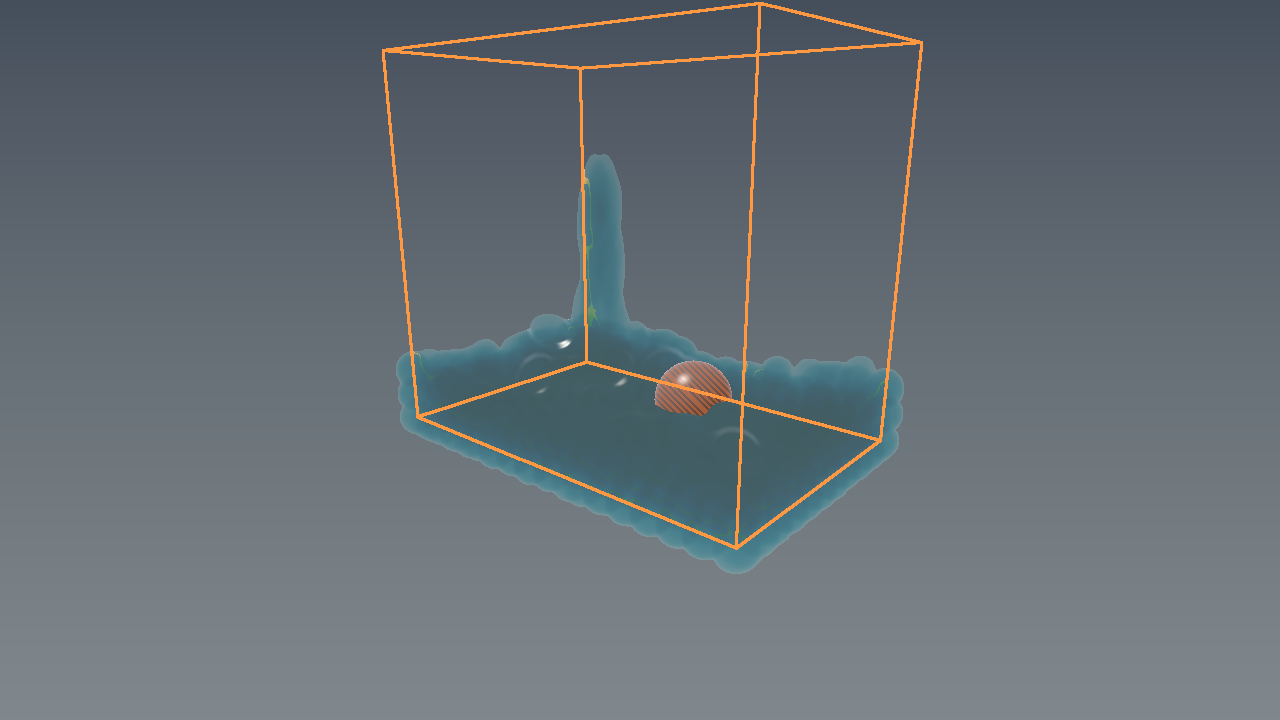
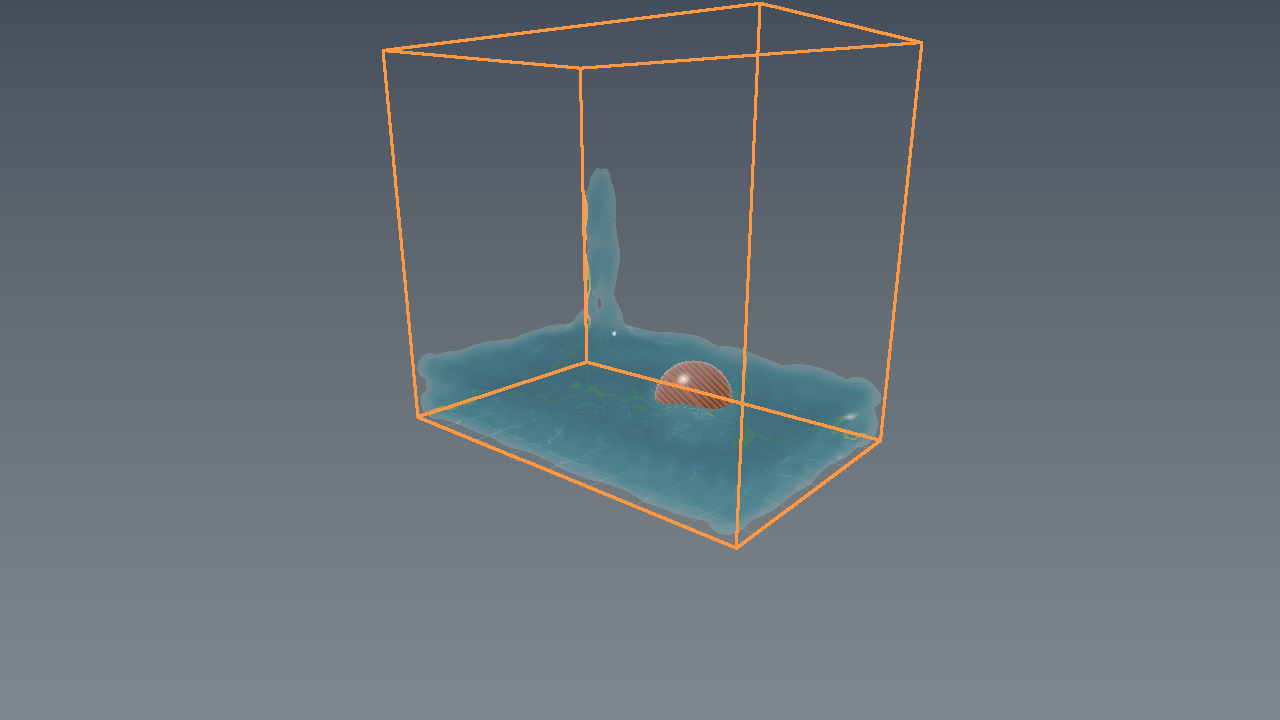
fix(fluid): replace blobby splats with PCA ellipsoids

Changed region(s): [[0.3125, 0.2139, 0.7188, 0.7944]]

diff --git a/Projects/Project-Fluid/Source/CpuProofMain.cpp b/Projects/Project-Fluid/Source/CpuProofMain.cpp
@@ -1,4 +1,5 @@
 #include "PbfFluid.h"
+#include "SurfaceReconstruction.h"
 
 #include <algorithm>
 #include <array>
@@ -46,20 +47,21 @@ public:
         }
     }
 
-    void FluidSurface(const std::vector<PF::Vec3>& positions,const std::vector<PF::Vec3>& velocities,const PF::FluidMaterial& material){
+    void FluidSurface(const std::vector<PF::SurfaceKernel>& kernels,const PF::FluidMaterial& material){
         const std::size_t count=static_cast<std::size_t>(W)*H;
         std::vector<float> front(count,std::numeric_limits<float>::max()),thickness(count,0.0f),scratch(count,std::numeric_limits<float>::max());
-        constexpr float surfaceRadius=.180f;
-        for(std::size_t i=0;i<positions.size();++i){
-            const PF::Vec3 centre=positions[i],velocity=velocities[i];Screen s=Project(centre);if(!s.visible)continue;
-            float vx=PF::Dot(velocity,Right),vy=-PF::Dot(velocity,Up),speed=std::sqrt(vx*vx+vy*vy);float ux=speed>.01f?vx/speed:0.0f,uy=speed>.01f?vy/speed:1.0f;
-            float aspect=1.0f+std::clamp(speed*.22f,0.0f,1.4f),major=surfaceRadius*aspect,minor=surfaceRadius/std::sqrt(aspect),depthRadius=minor;
-            int majorPixels=std::clamp(static_cast<int>(Focal*major/s.z),1,72),minorPixels=std::clamp(static_cast<int>(Focal*minor/s.z),1,48),extent=majorPixels;
+        for(const PF::SurfaceKernel& kernel:kernels){
+            const PF::Vec3 centre=kernel.Centre;Screen s=Project(centre);if(!s.visible)continue;
+            const Screen ea=Project(centre+kernel.AxisA),eb=Project(centre+kernel.AxisB),ec=Project(centre+kernel.AxisC);
+            const float ax=ea.x-s.x,ay=ea.y-s.y,bx=eb.x-s.x,by=eb.y-s.y,cx=ec.x-s.x,cy=ec.y-s.y;
+            const float m00=ax*ax+bx*bx+cx*cx,m01=ax*ay+bx*by+cx*cy,m11=ay*ay+by*by+cy*cy,trace=m00+m11,disc=std::sqrt(std::max(0.0f,(m00-m11)*(m00-m11)+4*m01*m01));
+            const float majorPixels=std::sqrt(std::max(1.0f,(trace+disc)*.5f)),minorPixels=std::sqrt(std::max(1.0f,(trace-disc)*.5f)),angle=.5f*std::atan2(2*m01,m00-m11),ux=std::cos(angle),uy=std::sin(angle);
+            const float da=PF::Dot(kernel.AxisA,Forward),db=PF::Dot(kernel.AxisB,Forward),dc=PF::Dot(kernel.AxisC,Forward),depthRadius=std::sqrt(da*da+db*db+dc*dc);const int extent=std::clamp(static_cast<int>(majorPixels)+1,1,72);
             for(int oy=-extent;oy<=extent;++oy)for(int ox=-extent;ox<=extent;++ox){
-                float along=(ox*ux+oy*uy)/majorPixels,across=(-ox*uy+oy*ux)/minorPixels,d2=along*along+across*across;if(d2>1.0f)continue;
-                int x=static_cast<int>(s.x)+ox,y=static_cast<int>(s.y)+oy;if(x<0||y<0||x>=(int)W||y>=(int)H)continue;
-                float nz=std::sqrt(1.0f-d2);std::size_t at=static_cast<std::size_t>(y)*W+x;
-                front[at]=std::min(front[at],s.z-depthRadius*nz);thickness[at]+=2.0f*depthRadius*nz;
+                const float along=(ox*ux+oy*uy)/majorPixels,across=(-ox*uy+oy*ux)/minorPixels,d2=along*along+across*across;if(d2>1.0f)continue;
+                const int x=static_cast<int>(s.x)+ox,y=static_cast<int>(s.y)+oy;if(x<0||y<0||x>=(int)W||y>=(int)H)continue;
+                const float nz=std::sqrt(1.0f-d2);const std::size_t at=static_cast<std::size_t>(y)*W+x;
+                front[at]=std::min(front[at],s.z-depthRadius*nz);thickness[at]+=2.0f*depthRadius*nz*kernel.VolumeWeight;
             }
         }
         // Six edge-aware depth/thickness passes mirror the source renderer's
@@ -101,7 +103,6 @@ private:
 int main(int argc,char**argv){
     PF::PbfFluid fluid;fluid.SetObstacle(true);
     if(argc>3){const std::string material=argv[3];if(material=="milk")fluid.SetMaterial(PF::Material::Milk);else if(material=="honey")fluid.SetMaterial(PF::Material::Honey);else if(material=="chocolate")fluid.SetMaterial(PF::Material::Chocolate);}
-    fluid.Stir(1.7f);
     int steps=argc>2?std::max(0,std::stoi(argv[2])):18;
     for(int i=0;i<steps;++i){fluid.Pour(1.0f/60.0f);fluid.Step(1.0f/60.0f);}
     const auto& d=fluid.Diagnostics();
@@ -116,6 +117,6 @@ int main(int argc,char**argv){
              <<"bounds [-1.95,1.95] x [0.19,3.70] x [-1.25,1.25] m | sphere contacts "<<d.SphereContacts<<" | wall contacts "<<d.WallContacts<<" | min sphere distance "<<minimumObstacleDistance<<" m\n"
              <<"pressure passes "<<d.PressureIterations<<" | mean/peak compression "<<d.MeanCompression<<" / "<<d.PeakCompression<<"\n"
              <<"viscosity PCG iterations "<<d.ViscosityIterations<<" | relative residual "<<d.ViscosityRelativeResidual<<"\n";
-    if(argc>1){ProofRenderer renderer(1280,720);renderer.Bounds();const auto& material=fluid.ActiveMaterial();renderer.FluidSurface(fluid.Positions(),fluid.Velocities(),material);renderer.Sphere(PF::PbfFluid::ObstacleCentre(),PF::PbfFluid::ObstacleRadius(),{.16f,.18f,.20f},true,.25f,1.0f,1.45f);renderer.Bounds(false);if(!renderer.Save(argv[1]))return 2;std::cout<<"proof frame: "<<argv[1]<<'\n';}
+    if(argc>1){ProofRenderer renderer(1280,720);renderer.Bounds();const auto& material=fluid.ActiveMaterial();PF::SurfaceReconstruction reconstruction;reconstruction.Update(fluid.Positions());renderer.FluidSurface(reconstruction.Kernels(),material);renderer.Sphere(PF::PbfFluid::ObstacleCentre(),PF::PbfFluid::ObstacleRadius(),{.16f,.18f,.20f},true,.25f,1.0f,1.45f);renderer.Bounds(false);if(!renderer.Save(argv[1]))return 2;std::cout<<"proof frame: "<<argv[1]<<'\n';}
     return std::isfinite(d.PeakCompression)?0:1;
 }

diff --git a/Projects/Project-Fluid/Source/SurfaceReconstruction.cpp b/Projects/Project-Fluid/Source/SurfaceReconstruction.cpp
@@ -1,0 +1,29 @@
+#include "SurfaceReconstruction.h"
+#include <algorithm>
+#include <cmath>
+
+namespace Frontier::ProjectFluid {
+namespace { constexpr float Pi=3.14159265358979323846f; }
+
+void SurfaceReconstruction::Diagonalize(std::array<float,9>& c,std::array<float,9>& v) noexcept {
+    v={1,0,0,0,1,0,0,0,1};
+    auto rotate=[&](int p,int q){const int pq=p*3+q;if(std::abs(c[pq])<1e-12f)return;const float angle=.5f*std::atan2(2*c[pq],c[q*3+q]-c[p*3+p]),cs=std::cos(angle),sn=std::sin(angle),app=c[p*3+p],aqq=c[q*3+q],apq=c[pq];
+        for(int k=0;k<3;++k){if(k!=p&&k!=q){const float kp=c[k*3+p],kq=c[k*3+q];c[k*3+p]=c[p*3+k]=cs*kp-sn*kq;c[k*3+q]=c[q*3+k]=sn*kp+cs*kq;}const float vp=v[k*3+p],vq=v[k*3+q];v[k*3+p]=cs*vp-sn*vq;v[k*3+q]=sn*vp+cs*vq;}
+        c[p*3+p]=cs*cs*app-2*sn*cs*apq+sn*sn*aqq;c[q*3+q]=sn*sn*app+2*sn*cs*apq+cs*cs*aqq;c[pq]=c[q*3+p]=0;};
+    for(int sweep=0;sweep<5;++sweep){rotate(0,1);rotate(0,2);rotate(1,2);}
+}
+
+void SurfaceReconstruction::Update(const std::vector<Vec3>& positions) {
+    constexpr float support=.42f,support2=support*support;
+    Kernels_.resize(positions.size());
+    for(std::size_t i=0;i<positions.size();++i){const Vec3 origin=positions[i];float weight=0,xx=0,xy=0,xz=0,yy=0,yz=0,zz=0;Vec3 mean{};int neighbors=0;
+        for(const Vec3& sample:positions){const Vec3 d=sample-origin;const float r2=Dot(d,d);if(r2>=support2)continue;const float w=1-r2*std::sqrt(r2)/(support*support2);weight+=w;mean+=d*w;xx+=w*d.x*d.x;xy+=w*d.x*d.y;xz+=w*d.x*d.z;yy+=w*d.y*d.y;yz+=w*d.y*d.z;zz+=w*d.z*d.z;++neighbors;}
+        SurfaceKernel& kernel=Kernels_[i];
+        auto sphere=[&](float radius){kernel={origin,{radius,0,0},{0,radius,0},{0,0,radius},(1.0f/PbfFluid::RestDensity)/(4*Pi/3*radius*radius*radius)};};
+        if(neighbors<8||weight<1e-8f){sphere(.097f);continue;}mean=mean/weight;
+        std::array<float,9> covariance{xx/weight-mean.x*mean.x,xy/weight-mean.x*mean.y,xz/weight-mean.x*mean.z,xy/weight-mean.x*mean.y,yy/weight-mean.y*mean.y,yz/weight-mean.y*mean.z,xz/weight-mean.x*mean.z,yz/weight-mean.y*mean.z,zz/weight-mean.z*mean.z},rotation{};
+        Diagonalize(covariance,rotation);const float maximum=std::max({covariance[0],covariance[4],covariance[8],1e-8f});const float e0=std::max(covariance[0],maximum/3),e1=std::max(covariance[4],maximum/3),e2=std::max(covariance[8],maximum/3);const float radius=.097f+.058f*std::min(1.0f,(neighbors-7)/20.0f),factor=radius/std::cbrt(e0*e1*e2),a=e0*factor,b=e1*factor,c=e2*factor,smoothing=.3f*std::min(1.0f,(neighbors-7)/20.0f);
+        kernel.Centre=origin+mean*smoothing;kernel.AxisA={rotation[0]*a,rotation[3]*a,rotation[6]*a};kernel.AxisB={rotation[1]*b,rotation[4]*b,rotation[7]*b};kernel.AxisC={rotation[2]*c,rotation[5]*c,rotation[8]*c};kernel.VolumeWeight=(1.0f/PbfFluid::RestDensity)/(4*Pi/3*radius*radius*radius);
+    }
+}
+}

diff --git a/Projects/Project-Fluid/Source/VulkanFluidMain.cpp b/Projects/Project-Fluid/Source/VulkanFluidMain.cpp
@@ -3,6 +3,7 @@
 #include <GLFW/glfw3.h>
 
 #include "PbfFluid.h"
+#include "SurfaceReconstruction.h"
 
 #include <algorithm>
 #include <array>
@@ -68,10 +69,12 @@ struct alignas(16) Parameters {
     float OpticalPadding{};
 };
 struct alignas(16) GpuParticle {
-    float X{},Y{},Z{},Padding{};
-    float VelocityX{},VelocityY{},VelocityZ{},VelocityPadding{};
+    float X{},Y{},Z{},VolumeWeight{};
+    float AxisAX{},AxisAY{},AxisAZ{},PaddingA{};
+    float AxisBX{},AxisBY{},AxisBZ{},PaddingB{};
+    float AxisCX{},AxisCY{},AxisCZ{},PaddingC{};
 };
-static_assert(sizeof(Parameters) == 80 && sizeof(GpuParticle) == 32);
+static_assert(sizeof(Parameters) == 80 && sizeof(GpuParticle) == 64);
 
 class FluidApplication final {
 public:
@@ -128,6 +131,7 @@ private:
     Buffer PixelBuffer_;
     Buffer UniformBuffer_;
     PF::PbfFluid Fluid_;
+    PF::SurfaceReconstruction Reconstruction_;
     Parameters Params_{};
     std::vector<GpuParticle> GpuParticles_;
     float StepAccumulator_{};
@@ -385,10 +389,14 @@ private:
 
     void UploadParticles() {
         const auto& positions = Fluid_.Positions();
-        const auto& velocities = Fluid_.Velocities();
-        for (std::size_t i = 0; i < positions.size(); ++i)
-            GpuParticles_[i] = {positions[i].x, positions[i].y, positions[i].z, 0.0f,
-                                velocities[i].x, velocities[i].y, velocities[i].z, 0.0f};
+        Reconstruction_.Update(positions);
+        const auto& kernels = Reconstruction_.Kernels();
+        for (std::size_t i = 0; i < positions.size(); ++i) {
+            const auto& k = kernels[i];
+            GpuParticles_[i] = {k.Centre.x,k.Centre.y,k.Centre.z,k.VolumeWeight,
+                k.AxisA.x,k.AxisA.y,k.AxisA.z,0.0f,k.AxisB.x,k.AxisB.y,k.AxisB.z,0.0f,
+                k.AxisC.x,k.AxisC.y,k.AxisC.z,0.0f};
+        }
         std::memcpy(ParticleBuffer_.Mapped, GpuParticles_.data(), positions.size() * sizeof(GpuParticle));
         Params_.ParticleCount = static_cast<std::uint32_t>(positions.size());
         Params_.Time = Fluid_.Time();

diff --git a/Projects/Project-Fluid/Source/SurfaceReconstruction.h b/Projects/Project-Fluid/Source/SurfaceReconstruction.h
@@ -1,0 +1,25 @@
+#pragma once
+#include "PbfFluid.h"
+#include <array>
+#include <vector>
+
+namespace Frontier::ProjectFluid {
+struct SurfaceKernel {
+    Vec3 Centre;
+    Vec3 AxisA;
+    Vec3 AxisB;
+    Vec3 AxisC;
+    float VolumeWeight{};
+};
+
+// Weighted covariance/PCA kernel reconstruction adapted from Yu & Turk and
+// the authoritative Flux reconstruction.ts. Physics positions are untouched.
+class SurfaceReconstruction final {
+public:
+    void Update(const std::vector<Vec3>& positions);
+    [[nodiscard]] const std::vector<SurfaceKernel>& Kernels() const noexcept { return Kernels_; }
+private:
+    static void Diagonalize(std::array<float,9>& covariance,std::array<float,9>& rotation) noexcept;
+    std::vector<SurfaceKernel> Kernels_;
+};
+}

diff --git a/Projects/Project-Fluid/Source/PbfFluid.cpp b/Projects/Project-Fluid/Source/PbfFluid.cpp
@@ -65,6 +65,7 @@ void PbfFluid::Reset(Experiment experiment) {
                 Add({x*0.157f,1.0f+y*0.157f,z*0.157f});
     }
     RebuildBoundarySamples(); BuildNeighbours(); BuildBoundaryNeighbours(); ComputeDensity(false);
+    if(experiment==Experiment::Basin){SolvePressure();std::fill(Velocities_.begin(),Velocities_.end(),Vec3{});Diagnostics_={};}
 }
 
 float PbfFluid::Poly6(float r2) const noexcept {

diff --git a/Projects/Project-Fluid/RESEARCH.md b/Projects/Project-Fluid/RESEARCH.md
@@ -30,11 +30,11 @@ commit. `Project-Fluid-CPU` is the deterministic headless path used for proof.
 - The default native presentation is a continuous screen-space liquid surface,
   not one rendered sphere per simulation particle. A first compute/CPU-mirror
   pass accumulates nearest front depth and additive optical thickness from
-  velocity-aligned anisotropic kernels. The major axis stretches along projected
-  flow while preserving a smaller depth axis, closing gaps in jets without
-  exposing a chain of spheres. Repeated broad bilateral depth and Gaussian
-  thickness filters close the sampled sheet; depth gradients reconstruct a
-  low-frequency shading normal.
+  weighted-covariance/PCA ellipsoids. Dense neighborhoods use bounded 3:1,
+  volume-normalized principal axes and Laplacian-smoothed render centers; sparse
+  spray remains mass-volume spherical. Repeated broad bilateral depth and
+  Gaussian thickness filters close the sampled sheet; depth gradients
+  reconstruct a low-frequency shading normal.
 - Vulkan kernels use Frontier's `.slang` file convention and lower to SPIR-V.
   CPU and Vulkan resolves consume the source commit's base colour,
   Beer–Lambert absorption, opacity, roughness and IOR values for all four
@@ -50,10 +50,11 @@ commit. `Project-Fluid-CPU` is the deterministic headless path used for proof.
 - Native capillarity now evaluates the complete Flux/Akinci pair model: weighted
   color-field normals, the piecewise cohesion kernel, equal/opposite pair
   scattering, density-deficiency correction, and sampled-solid adhesion.
-- This is honestly a depth/thickness screen-space reconstruction, not a claim
-  that the source's CPU covariance ellipsoids, complete Yu–Turk implicit field,
-  or Marching Cubes were ported. It retains the known overlap, thin-sheet and
-  silhouette limits recorded in the original research below.
+- Weighted covariance/PCA, smoothed centers, and bounded ellipsoids are now
+  shared by the CPU and Vulkan paths. The resolve is still honestly a
+  depth/thickness screen-space reconstruction—not yet the complete Yu–Turk
+  summed implicit field or Marching Cubes extraction. It therefore retains the
+  known overlap and thin-sheet limits recorded in the original research below.
 - The WebGL anisotropic screen-space reconstruction is not falsely relabeled as
   ReSTIR. Future ReSTIR integration consumes an immutable particle/surface
   snapshot after the fixed step, writes fluid motion vectors, and rejects

diff --git a/Exhibits/Project-Fluid/README.md b/Exhibits/Project-Fluid/README.md
@@ -19,9 +19,9 @@ tension, wetting and shear thinning alter the corresponding simulation state.
 
 These are C++ CPU-mirror execution outputs, not generated artwork or captures
 from the removed ocean project. The proof executes the same scene and same
-front-depth/thickness surface algorithm as the Vulkan `.slang` path: velocity-aligned anisotropic
-kernels build continuous front depth and optical thickness, then broad depth and
-thickness filters remove particle-frequency lobes, and a resolve reconstructs normals and applies
+front-depth/thickness surface algorithm as the Vulkan `.slang` path: weighted-covariance/PCA ellipsoids with smoothed render centers build continuous
+front depth and optical thickness, then broad depth and thickness filters remove
+particle-frequency lobes, and a resolve reconstructs normals and applies
 refraction, Beer–Lambert attenuation, Fresnel response and rough highlights.
 Individual simulation particles are not directly drawn in the default proof.
 
@@ -35,8 +35,9 @@ projection used during pressure iterations.
 ```text
 Flux PBF C++ mirror | material Water | particles 1620 | t 1.50000 s
 bounds [-1.95,1.95] x [0.19,3.70] x [-1.25,1.25] m
-sphere contacts 75 | wall contacts 5922 | minimum sphere distance 0.36001 m
-pressure passes 6 | mean/peak compression 0.00323 / 0.05044
+sphere contacts 0 | wall contacts 0 | minimum sphere distance 0.46668 m
+pressure passes 3 | mean/peak compression 0.00245 / 0.02244
+viscosity PCG iterations 1 | relative residual 0.00000
 ```
 
 Build and reproduce:
@@ -54,9 +55,9 @@ python3 Tools/PpmToPng.py /tmp/flux.ppm \
 Checksums:
 
 ```text
-923075059850a165c3b45a79ec4d8ac2b63289322ee18eea2985c9eca098e5d8  ProjectFluid_Flux_PBF_Bounds_Collision.png
-976d394a161e8bc8c3790d6d4896dbb29df918cc3648cafa0539f19d01617bf6  ProjectFluid_Flux_PBF_Collision.gif
-6f3781ac93481ccf7fa31d22cc0732841945da38c9e663650f7a4542cda79c5f  ProjectFluid_Flux_Surface_Material_Comparison.png
+c9188fd017912aa2048d60a01781fbb1e048bdbbea9b9f982716f185c8d91880  ProjectFluid_Flux_PBF_Bounds_Collision.png
+0417a3eff2dc4627b1a902a80889ae7766a9f3729e0c426e57c3bb3d07ab679a  ProjectFluid_Flux_PBF_Collision.gif
+8f35342e5610d8d2435c2ff644fea7a46320223948925a64f7e35995a3eb94c3  ProjectFluid_Flux_Surface_Material_Comparison.png
 ```
 
 The GIF samples twelve independently reproduced fixed-step states. The

diff --git a/Projects/Project-Fluid/README.md b/Projects/Project-Fluid/README.md
@@ -15,9 +15,10 @@ which has been removed.
 - pairwise surface response, viscosity and shear-thinning material response
 - water, milk, honey and chocolate presets
 - pouring, stirring, pause and deterministic reset
-- Vulkan compute screen-space surface reconstruction: velocity-aligned
-  anisotropic front-depth/thickness kernels, wide filtered resolve,
-  reconstructed normals and swapchain copy
+- shared CPU/Vulkan Yu–Turk weighted covariance/PCA reconstruction with
+  smoothed centers and bounded, volume-normalized ellipsoid kernels
+- Vulkan front-depth/thickness projection, wide filtered resolve, reconstructed
+  normals and swapchain copy
 - Frontier `.slang` shader sources lowered to Vulkan SPIR-V
 - source optical presets: base colour, absorption, opacity, roughness and IOR
 - continuous refraction, Beer–Lambert attenuation, Fresnel and rough highlights

diff --git a/Projects/Project-Fluid/PAPER_FIDELITY.md b/Projects/Project-Fluid/PAPER_FIDELITY.md
@@ -30,7 +30,7 @@ Primary PDFs and adaptation notes are indexed in `RESEARCH.md`.
 - [ ] Divergence-free velocity projection before implicit viscosity
 - [ ] Published-SI material conversion with explicit scene-unit scaling and validation benchmarks
 - [ ] Dynamic rigid sphere inertia, angular momentum, and equal/opposite hydrodynamic forces
-- [ ] Yu–Turk weighted covariance/PCA and smoothed render centers in native C++
+- [x] Yu–Turk weighted covariance/PCA, bounded volume-normalized ellipsoids, and smoothed render centers in native C++
 - [ ] Summed anisotropic implicit density field
 - [ ] Marching Cubes mesh extraction with topology/volume validation
 - [ ] Vulkan BLAS/TLAS construction for the extracted fluid mesh
